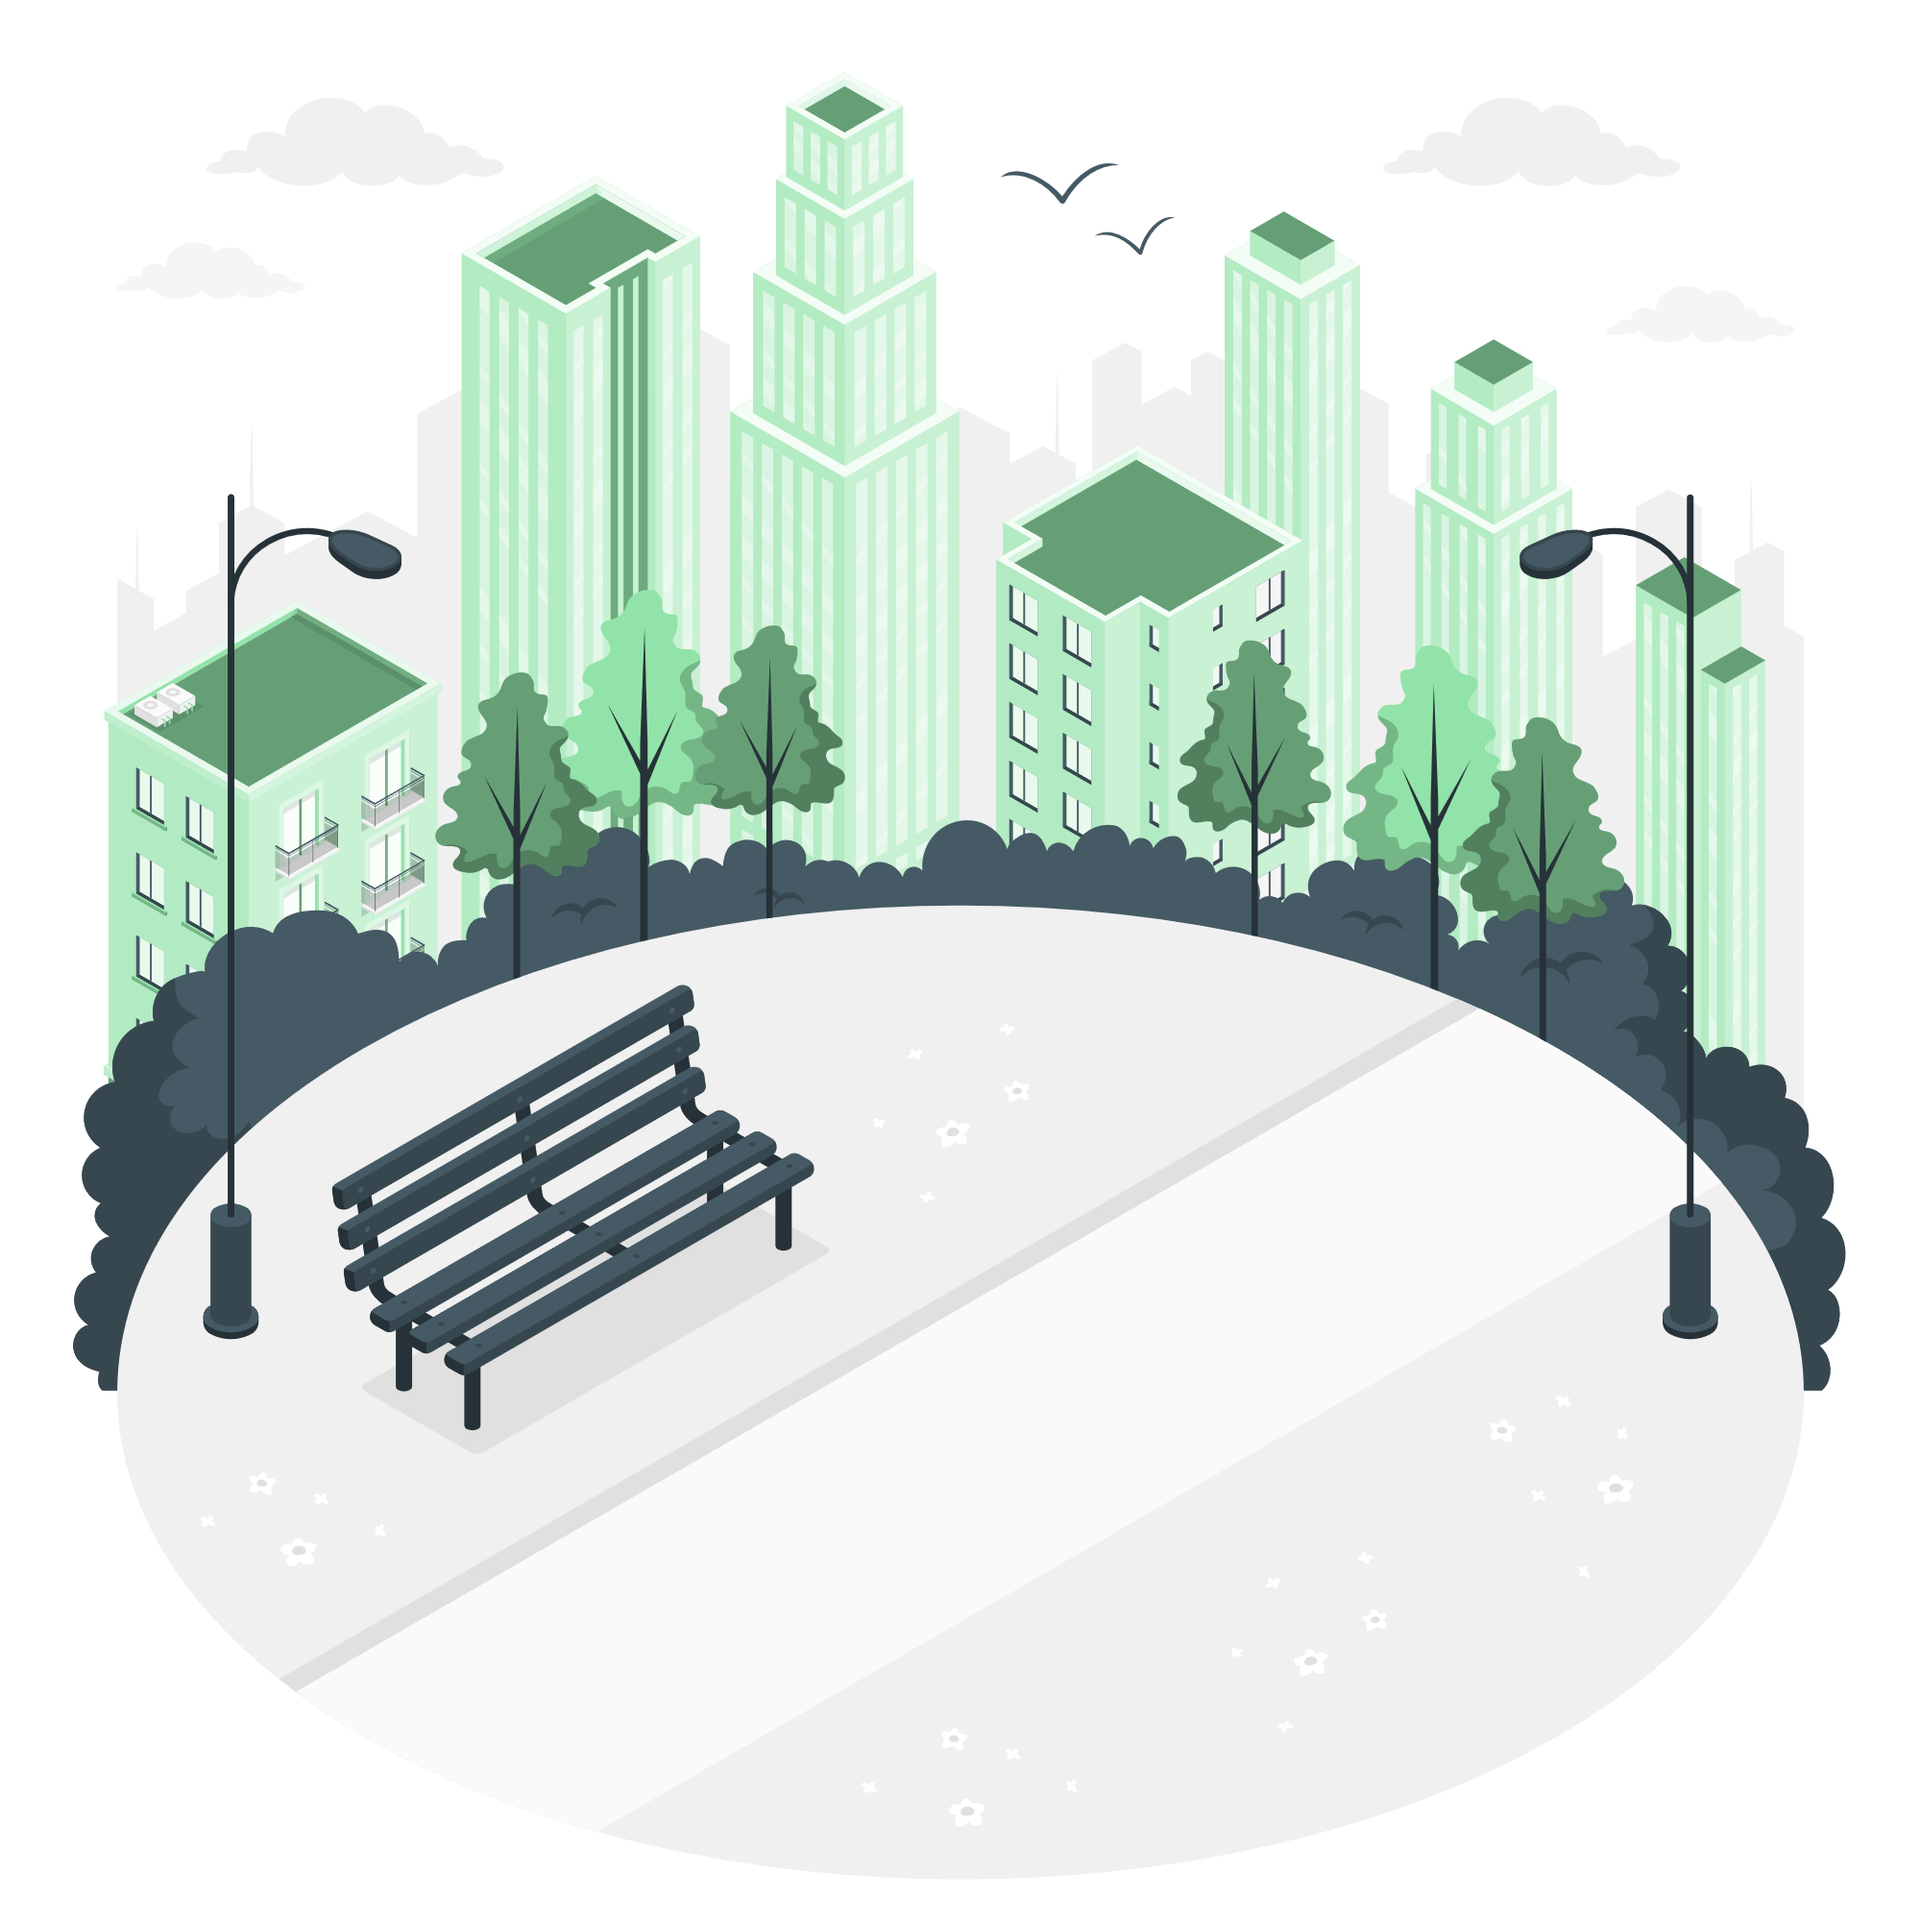
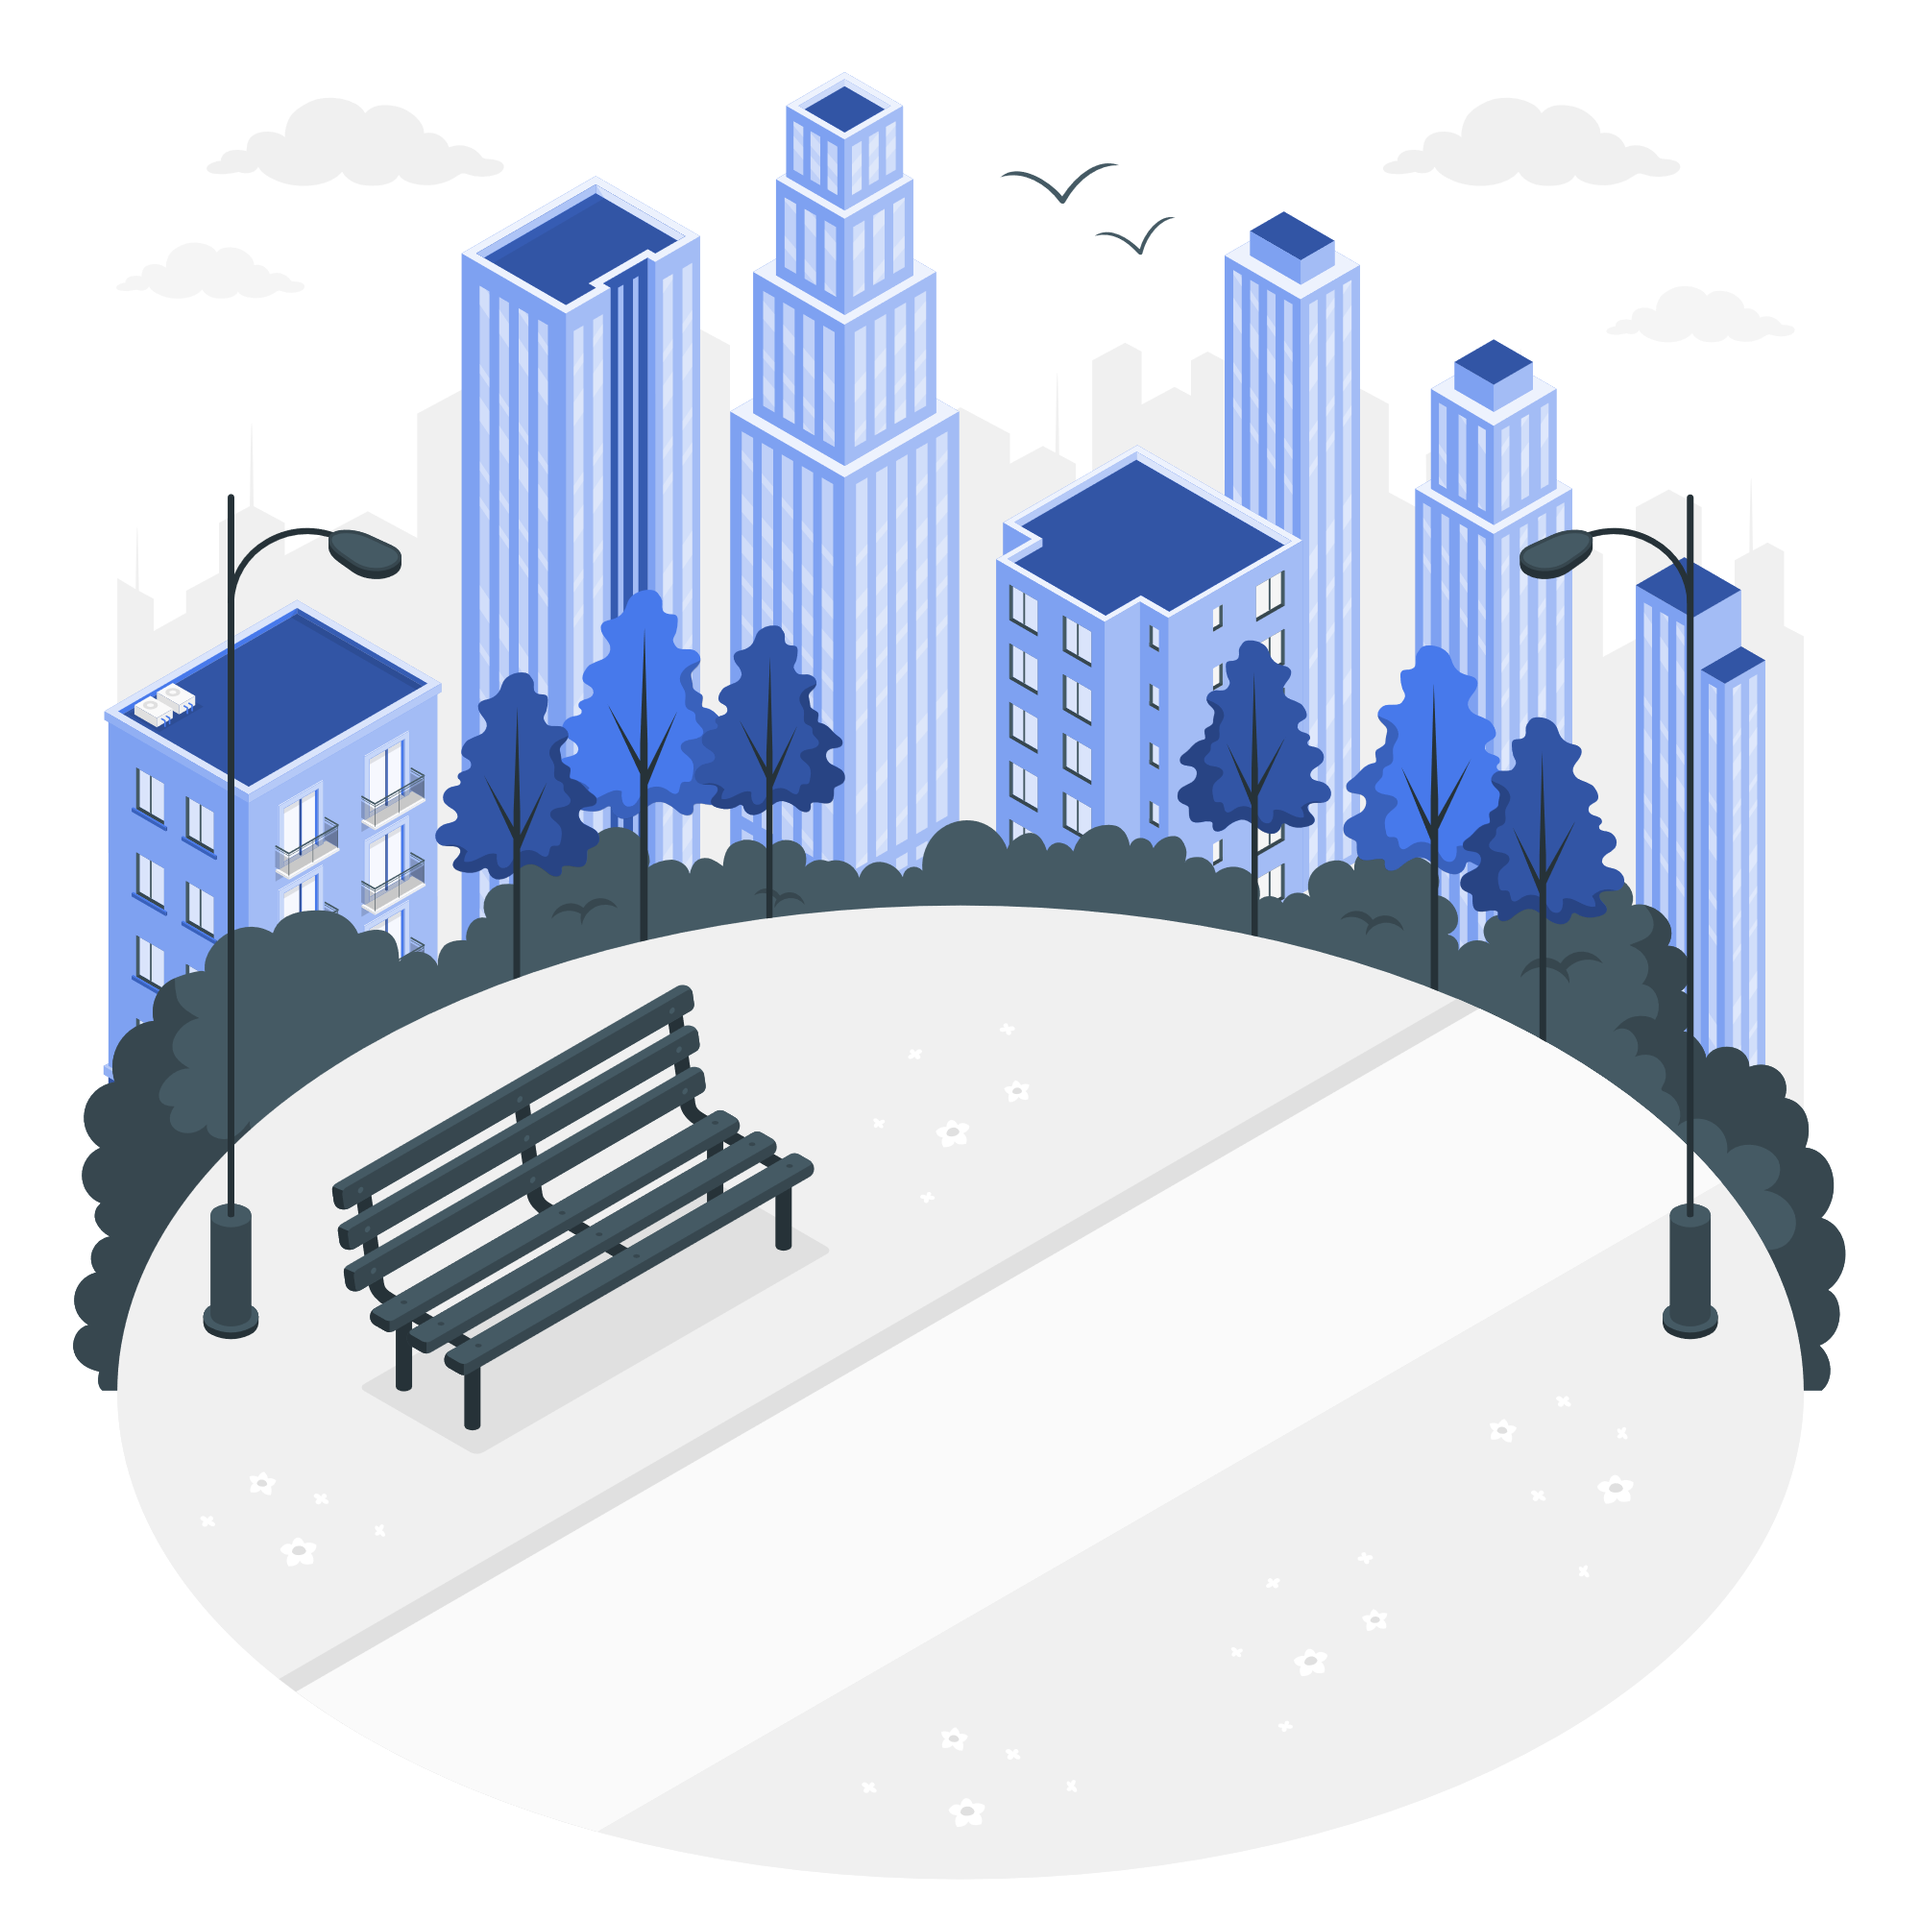
...

Changed region(s): [[0.031, 0.031, 0.93, 0.558]]

diff --git a/css/sec03.css b/css/sec03.css
@@ -1,5 +1,4 @@
 
-@media screen and (min-width: 501px){
 /* Para desktop */
     @keyframes background_move {
         0% {
@@ -15,7 +14,7 @@
 
 
     #sec03 {
-        background-color:rgb(205, 228, 206) ;
+        background-color: var(--cor-principal);
         width: 100%;
         height: 100vh;
         /*background: linear-gradient(45deg, #000000, #4B3300, #8B5E00, #000000);*/
@@ -52,8 +51,8 @@
 
     .btn:hover {
         cursor:pointer;
-        border: 4px solid rgb(144, 196, 170);
-        color:rgb(144, 196, 170);
+        border: 4px solid var(--cor-segundaria);
+        color:var(--cor-segundaria);
     }
 
     .progresso-div {
@@ -95,7 +94,7 @@
         left: 25%;
         height:6px;
         width: 0%;
-        background-color: rgb(144, 196, 170);
+        background-color: var(--cor-segundaria);
         z-index: 1;
         transition: 1s all;
     }
@@ -115,7 +114,7 @@
 
 
     .etapa-progresso.ativo{
-        border: 3px solid rgb(144, 196, 170);
+        border: 3px solid var(--cor-segundaria);
 
     }
 
@@ -126,8 +125,6 @@
         color: var(--tema);
 
     }
-
-
 
     .tela {
         position: relative;
@@ -143,7 +140,7 @@
         width: 100%;
         height: 100%;
     }
-}
+
 
 @media screen and (max-width: 500px) {
     /* Para mobile */

diff --git a/css/sec02.css b/css/sec02.css
@@ -1,5 +1,4 @@
-@media screen and (min-width: 501px){
-/* Para desktop */
+
 
     #sec02 {
         background-color: white;
@@ -18,7 +17,7 @@
     }
 
     #sec02 h1{
-        color: rgb(73, 97, 76);
+        color: var(--cor-segundaria);
         text-align: center;
         font-weight: bold;
         font-size: 3em;
@@ -39,7 +38,7 @@
         justify-content: center;
         flex-direction: column;
         align-items: center;
-        background-color: rgb(205, 228, 206);
+        background-color: var(--cor-principal);
         padding: 2%;
         width: 400px;
         height: 400px;
@@ -55,8 +54,6 @@
 
 
 
-
-}
 
 @media screen and (max-width: 500px) {
     #sec02 {
@@ -102,7 +99,7 @@
         justify-content: center;
         flex-direction: column;
         align-items: center;
-        background-color: rgb(205, 228, 206);
+        background-color: var(--cor-principal);
         margin: 1%;
         width: 260px;
         height: 260px;

diff --git a/index.html b/index.html
@@ -88,14 +88,14 @@
             <div id="objetivos">
                 <h1>OBJETIVOS</h1>
                 <div class="itens">
-                    <div class="item"><img src="img/Kids Studying from Home-bro(1).png" alt="">Aprender coisas novas</div>
-                    <div class="item"><img src="img/rice field-amico(2).png" alt="" id="b1">Entender a influência do campo na sociedade</div>
+                    <div class="item"><img src="img/Kids Studying from Home-bro.png" alt="">Aprender coisas novas</div>
+                    <div class="item"><img src="img/rice field-amico.png" alt="" id="b1">Entender a influência do campo na sociedade</div>
                     <div class="item"><img src="img/City skyline-amico.png" alt="">Entender a influência da cidade na sociedade</div>
                 </div>
 
             </div>
                 
-    </section>
+    </section>  
 
     <!-- Terceira Seção -->
     <section id="sec03">

diff --git a/css/footer.css b/css/footer.css
@@ -1,9 +1,9 @@
-@media screen and (min-width: 501px) {
+
     /* Para desktop */
     #rodape {
         width: 100%;
         height: 350px;
-        background: #464827;
+        background: var(--cor-segundaria);
         display: flex;
         justify-content: center;
         align-items: center;
@@ -29,7 +29,6 @@
         margin: 1em 0 ;
     }
 
-}    
 
 
 
@@ -38,7 +37,6 @@
     #rodape {
         width: 100%;
         height:40vh;
-        background: #464827;
         display: flex;
         justify-content: center;
         align-items: center;

diff --git a/css/sec04.css b/css/sec04.css
@@ -1,4 +1,4 @@
-@media screen and (min-width: 1240px){
+
 /* Para desktop */
     #sec04 {
         height: 110vh;
@@ -7,7 +7,7 @@
         display: flex;
         justify-content: center;
     }
-}
+
 
 @media screen and (max-width: 501px) {
     /* Para mobile */

diff --git a/css/style.css b/css/style.css
@@ -15,6 +15,8 @@
     --estrela:#fff;
     --cor_da_fonte: #ffffff;
     --tema:#ffffff;
+    --cor-principal: rgb(197, 234, 243);
+    --cor-segundaria: rgb(47, 91, 156);
     
 }
 

diff --git a/css/header.css b/css/header.css
@@ -1,4 +1,4 @@
-@media screen and (min-width: 501px) {
+
 /* Para desktop */
     #cabecalho {
         height: 10vh;
@@ -107,7 +107,7 @@
     }
 
 
-}
+
 
 
 
